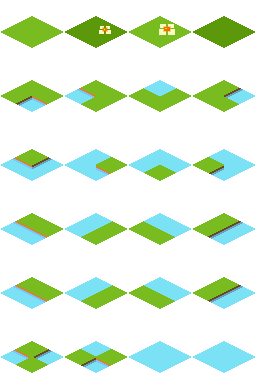
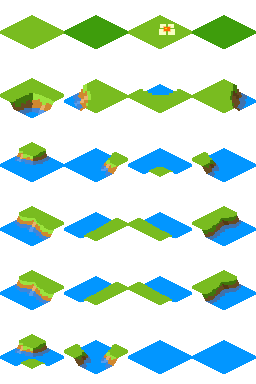
Add new stage

diff --git a/Classes/SceneManager.cpp b/Classes/SceneManager.cpp
@@ -7,7 +7,9 @@
 //
 
 #include "SceneManager.h"
+
 #include "GameScene.h"
+#include "JSONPacker.h"
 #include "Lobby.h"
 
 using namespace cocos2d;
@@ -28,6 +30,7 @@ SceneManager *SceneManager::getInstance() {
 SceneManager::SceneManager() {
     _gameScene = nullptr;
     _lobby = nullptr;
+    _connectionState = ConnectionState::NOT_CONNECTED;
     _networkingWrapper = std::unique_ptr<NetworkingWrapper>(new NetworkingWrapper());
     _networkingWrapper->setDelegate(this);
 }
@@ -40,14 +43,13 @@ SceneManager::~SceneManager() {
 
 void SceneManager::enterGameScene(bool networked, int stageId) {
     _state = networked ? SceneState::VS_MODE : SceneState::TRAINING;
-    _networkingWrapper->stopAdvertisingAvailability();
 
     if (_lobby) {
         _lobby->dismissAllDialogs();
     }
     Scene *scene = Scene::createWithPhysics();
 #if defined(COCOS2D_DEBUG)
-// scene->getPhysicsWorld()->setDebugDrawMask(PhysicsWorld::DEBUGDRAW_ALL);
+    // scene->getPhysicsWorld()->setDebugDrawMask(PhysicsWorld::DEBUGDRAW_ALL);
 #endif
     _gameScene = GameScene::create();
 
@@ -64,9 +66,13 @@ void SceneManager::enterGameScene(bool networked, int stageId) {
 }
 
 void SceneManager::returnToLobby() {
-    if (_gameScene) {
+    if (_connectionState != ConnectionState::NOT_CONNECTED && _state == SceneState::VS_MODE) {
+        _networkingWrapper->disconnect();
+    }
+
+    if (_state == SceneState::TRAINING || _state == SceneState::VS_MODE) {
         _state = SceneState::LOBBY;
-        SceneManager::getInstance()->receiveMultiplayerInvitations();
+        receiveMultiplayerInvitations();
         Director::getInstance()->popScene();
         _gameScene = nullptr;
     }
@@ -80,12 +86,14 @@ void SceneManager::receiveMultiplayerInvitations() {
     _networkingWrapper->startAdvertisingAvailability();
 }
 
-void SceneManager::sendData(const void *data, unsigned long length) {
-    _networkingWrapper->sendData(data, length);
+void SceneManager::sendData(const void *data, unsigned long length, SendDataMode mode) {
+    CCLOG("Send data %lu", length);
+    _networkingWrapper->sendData(data, length, mode);
 }
 
 void SceneManager::setLobby(Lobby *lobby) {
     _state = SceneState::LOBBY;
+    receiveMultiplayerInvitations();
     _lobby = lobby;
 }
 
@@ -93,39 +101,54 @@ void SceneManager::setLobby(Lobby *lobby) {
 #pragma mark NetworkingWrapperDelegate Methods
 
 void SceneManager::receivedData(const void *data, unsigned long length) {
-    if (_gameScene && _state == SceneState::VS_MODE) {
+    // TODO: Do not use magic number
+    CCLOG("ReceivedData is called. length: %lu", length);
+    const char *cstr = reinterpret_cast<const char *>(data);
+    std::string json = std::string(cstr, length);
+    if (_state == SceneState::VS_MODE && JSONPacker::dataTypeForData(json) == JSONPacker::DataType::GAME_STATE) {
+        // TODO: we can send std::string
         _gameScene->receivedData(data, length);
-    } else if (_state == SceneState::WAITING_FOR_VS_MODE) {
-        const char *cstr = reinterpret_cast<const char *>(data);
-        int stageId = atoi(cstr);
-        enterGameScene(true, stageId);
+    } else if (_state == SceneState::LOBBY && JSONPacker::dataTypeForData(json) == JSONPacker::DataType::STAGE_SELECT) {
+        if (!_networkingWrapper->isHost()) {
+            int stageId = JSONPacker::unpackStageSelectJSON(json);
+            enterGameScene(true, stageId);
+        }
+    } else if (length <= 3) {
+        CCLOG("ignored new game");
+        ;
+    } else {
+        CCLOG("ignored some commands");
     }
 }
 
 void SceneManager::stateChanged(ConnectionState state) {
     switch (state) {
         case ConnectionState::CONNECTING:
+            _connectionState = ConnectionState::CONNECTING;
             CCLOG("Connecting...");
             break;
         case ConnectionState::NOT_CONNECTED:
-            if (_gameScene) {
+            _connectionState = ConnectionState::NOT_CONNECTED;
+            _networkingWrapper->disconnect();
+            if (_state == SceneState::VS_MODE && _gameScene && _gameScene->isGameActive()) {
                 MessageBox("Unable to connect, please check your internet connection", "CONNECTION ERROR");
                 SceneManager::getInstance()->returnToLobby();
             }
             CCLOG("Not connected");
             break;
         case ConnectionState::CONNECTED:
-            _state = SceneState::WAITING_FOR_VS_MODE;
-            if (_networkingWrapper->isHost()) {
-                // Select stage
-                int stageId = random(1, NUM_STAGES);
-                std::stringstream ss;
-                ss << stageId;
-                std::string str = ss.str();
-                // We must ensure that data is sent
-                sendData(str.c_str(), str.size());
-                enterGameScene(true, stageId);
+            _connectionState = ConnectionState::CONNECTED;
+            if (_state == SceneState::LOBBY) {
+                _networkingWrapper->stopAdvertisingAvailability();
+                if (_networkingWrapper->isHost()) {
+                    int stageId = random(1, NUM_STAGES);
+                    std::string json = JSONPacker::packStageSelectJSON(stageId);
+                    // We must ensure that data is sent
+                    sendData(json.c_str(), json.size(), SendDataMode::Reliable);
+                    enterGameScene(true, stageId);
+                }
+            } else {
+                _networkingWrapper->disconnect();
             }
-            break;
     }
 }

diff --git a/Classes/JSONPacker.cpp b/Classes/JSONPacker.cpp
@@ -17,6 +17,34 @@ using namespace cocos2d;
 
 namespace JSONPacker {
 
+DataType dataTypeForData(const std::string &json) {
+    rapidjson::Document document;
+    document.Parse<0>(json.c_str());
+    return static_cast<DataType>(document["dataType"].GetInt());
+}
+
+int unpackStageSelectJSON(const std::string &json) {
+    rapidjson::Document document;
+    document.Parse<0>(json.c_str());
+    return document["stageId"].GetInt();
+}
+
+std::string packStageSelectJSON(const int data) {
+    rapidjson::Document document;
+    document.SetObject();
+    document.AddMember("dataType", static_cast<int>(DataType::STAGE_SELECT), document.GetAllocator());
+    document.AddMember("stageId", data, document.GetAllocator());
+
+    // Flush
+    rapidjson::StringBuffer buffer;
+    rapidjson::Writer<rapidjson::StringBuffer> writer(buffer);
+    document.Accept(writer);
+
+    std::string returnString(buffer.GetString(), buffer.Size());
+
+    return returnString;
+}
+
 GameState unpackGameStateJSON(const std::string &json) {
     rapidjson::Document document;
     document.Parse<0>(json.c_str());
@@ -72,6 +100,8 @@ GameState unpackGameStateJSON(const std::string &json) {
 std::string packGameStateJSON(const GameState gameState) {
     rapidjson::Document document;
     document.SetObject();
+
+    document.AddMember("dataType", static_cast<int>(DataType::GAME_STATE), document.GetAllocator());
 
     document.AddMember("name", gameState.name.c_str(), document.GetAllocator());
     document.AddMember("eventType", static_cast<int>(gameState.event), document.GetAllocator());

diff --git a/Classes/NetworkingWrapper.mm b/Classes/NetworkingWrapper.mm
@@ -41,9 +41,21 @@ void NetworkingWrapper::showPeerList() {
     [this->networkManager showPeerList];
 }
 
-void NetworkingWrapper::sendData(const void *data, unsigned long length) {
+void NetworkingWrapper::sendData(const void *data, unsigned long length, SendDataMode mode) {
+    MCSessionSendDataMode mcSessionMode = MCSessionSendDataReliable;
+
+    switch (mode) {
+        case SendDataMode::Reliable:
+            mcSessionMode = MCSessionSendDataReliable;
+            break;
+
+        case SendDataMode::Unreliable:
+            mcSessionMode = MCSessionSendDataUnreliable;
+            break;
+    }
+
     NSData *dataToSend = [NSData dataWithBytes:data length:length];
-    [this->networkManager sendData:dataToSend];
+    [this->networkManager sendData:dataToSend withMode:mcSessionMode];
 }
 
 void NetworkingWrapper::disconnect() {
@@ -71,6 +83,8 @@ std::vector<std::string> NetworkingWrapper::getPeerList() {
 bool NetworkingWrapper::isHost() {
     std::vector<std::string> peers = this->getPeerList();
     auto me = this->getDeviceName();
+    // CCLOG("isHost(): %d", peers[0].compare(me));
+    CCLOG("%s isHost -> %d", me, peers[0].compare(me));
     return peers[0].compare(me) > 0;
 }
 
@@ -80,6 +94,8 @@ bool NetworkingWrapper::isHost() {
 void NetworkingWrapper::receivedData(const void *data, unsigned long length) {
     if (this->delegate) {
         this->delegate->receivedData(data, length);
+    } else {
+        CCLOG("No delegata");
     }
 }
 

diff --git a/Classes/Constants.h b/Classes/Constants.h
@@ -12,7 +12,6 @@
 static const std::string CODE_NAME = "Yuzu";
 static const std::string GAME_NAME = "Rubber Duck Wars";
 
-static const std::string DEFAULT_STAGE_FILE = "stage2.tmx";
 static const std::string DEFAULT_BACKGROUND_LAYER_NAME = "background";
 static const std::string DEFAULT_COLLISION_LAYER_NAME = "collision";
 static const std::string DEFAULT_WALL_LAYER_NAME = "wall";
@@ -27,7 +26,7 @@ static const cocos2d::Color3B LABEL_COLOR = cocos2d::Color3B(196, 196, 196);
 
 // Game Options
 static const int DEFAULT_STAGE_ID = 1;
-static const int NUM_STAGES = 3;
+static const int NUM_STAGES = 4;
 
 static const bool USE_SIMPLE_AIMING = false;
 static const bool ALLOW_MORE_THAN_TWO_TAP = false;
@@ -161,7 +160,6 @@ enum class PlayerColor {
 
 enum class SceneState {
     LOBBY = 0,
-    WAITING_FOR_VS_MODE,
     TRAINING,
     VS_MODE,
     NUM_STATES,

diff --git a/Classes/GameScene.cpp b/Classes/GameScene.cpp
@@ -115,6 +115,10 @@ void GameScene::setStageId(int stageId) {
 #pragma mark -
 #pragma mark Game Logics
 
+bool GameScene::isGameActive() const {
+    return _active;
+}
+
 void GameScene::setGameActive(bool active) {
     _active = active;
     if (active) {
@@ -390,7 +394,8 @@ void GameScene::setNetworkedSession(bool networkedSession, bool isHost) {
 
 void GameScene::receivedData(const void *data, unsigned long length) {
     // length 1 means stage select
-    if (!_stage || length <= 1 || !_networkedSession) {
+    if (!_stage || !_networkedSession) {
+        CCLOG("ignored %p %lu %d", _stage, length, _networkedSession);
         return;
     }
     const char *cstr = reinterpret_cast<const char *>(data);

diff --git a/Classes/SceneManager.h b/Classes/SceneManager.h
@@ -24,7 +24,7 @@ public:
 
     void showPeerList();
     void receiveMultiplayerInvitations();
-    void sendData(const void *data, unsigned long length);
+    void sendData(const void *data, unsigned long length, SendDataMode mode = SendDataMode::Unreliable);
 
     void setLobby(Lobby *lobby);
 
@@ -32,6 +32,7 @@ private:
     std::unique_ptr<NetworkingWrapper> _networkingWrapper;
     GameScene *_gameScene;
     Lobby *_lobby;
+    ConnectionState _connectionState;
 
     SceneManager();
     ~SceneManager();

diff --git a/Classes/Stage.cpp b/Classes/Stage.cpp
@@ -59,7 +59,8 @@ void Stage::onEnter() {
     }
 
     _collisionLayer = _map->getLayer(DEFAULT_COLLISION_LAYER_NAME);
-    _collisionLayer->setPosition(Vec2(TILE_WIDTH * 0.25f, TILE_HEIGHT * 0.25f));
+    //_collisionLayer->setPosition(Vec2(TILE_WIDTH * 0.25, TILE_HEIGHT * 0.25));
+    _collisionLayer->setPosition(Vec2(0.0f, TILE_HEIGHT * 0.50f));
     auto size = _collisionLayer->getLayerSize();
     for (int y = 0; y < size.height; y++) {
         for (int x = 0; x < size.width; x++) {

diff --git a/Classes/JSONPacker.h b/Classes/JSONPacker.h
@@ -35,6 +35,16 @@ struct GameState {
     std::vector<Bullet *> newBullets;
 };
 
+enum class DataType {
+    STAGE_SELECT = 0,
+    GAME_STATE = 1,
+};
+
+DataType dataTypeForData(const std::string &json);
+
+int unpackStageSelectJSON(const std::string &json);
+std::string packStageSelectJSON(const int data);
+
 GameState unpackGameStateJSON(const std::string &json);
 std::string packGameStateJSON(const GameState data);
 }

diff --git a/Classes/NetworkingWrapper.h b/Classes/NetworkingWrapper.h
@@ -11,6 +11,11 @@
 
 #include "NetworkManagerDelegate.h"
 
+enum class SendDataMode {
+    Reliable,  // TCP
+    Unreliable // UDP
+};
+
 #ifdef __OBJC__
 @class NetworkManager;
 #else
@@ -38,7 +43,7 @@ public:
 
     void showPeerList();
 
-    void sendData(const void *data, unsigned long length);
+    void sendData(const void *data, unsigned long length, SendDataMode mode);
 
     static const char *getDeviceName();
 

diff --git a/Classes/NetworkManager.mm b/Classes/NetworkManager.mm
@@ -75,9 +75,9 @@
     self.session = nil;
 }
 
-- (void)sendData:(NSData *)data {
+- (void)sendData:(NSData *)data withMode:(MCSessionSendDataMode)mode {
     NSError *error;
-    [self.session sendData:data toPeers:self.session.connectedPeers withMode:MCSessionSendDataReliable error:&error];
+    [self.session sendData:data toPeers:self.session.connectedPeers withMode:mode error:&error];
 }
 
 - (NSArray *)getPeerList {

diff --git a/Classes/Bullet.cpp b/Classes/Bullet.cpp
@@ -28,7 +28,7 @@ void Bullet::onEnter() {
 
     this->setAnchorPoint(Vec2::ANCHOR_MIDDLE);
 
-    PhysicsBody *bulletPhysics = PhysicsBody::createBox(this->getBoundingBox().size);
+    PhysicsBody *bulletPhysics = PhysicsBody::createBox(this->getBoundingBox().size * 0.5f);
     bulletPhysics->setDynamic(true);
     bulletPhysics->setGravityEnable(false);
     bulletPhysics->setRotationEnable(false);

diff --git a/Classes/GameScene.h b/Classes/GameScene.h
@@ -28,6 +28,8 @@ public:
     void receivedData(const void *data, unsigned long length);
 
     void setStageId(int stageId);
+    
+    bool isGameActive() const;
 
 protected:
     // Lifecycle
@@ -35,6 +37,7 @@ protected:
     void onEnter() override;
 
     // Game Logic
+    
     void setGameActive(bool active);
     void step(float dt);
     void update(float dt) override;
